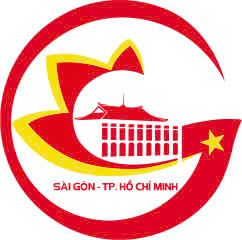
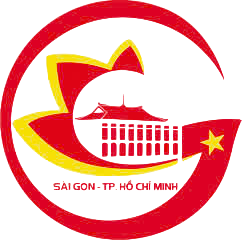
add ContactBar and remove background

diff --git a/src/pages/Home.tsx b/src/pages/Home.tsx
@@ -48,18 +48,7 @@ const Home = () => {
         </div>
         <div>images</div>
       </div>
-      <div className="flex flex-row gap-4">
-        <div>images</div>
-        <div>
-          <p>text</p>
-          <h1>title</h1>
-          <p>Description</p>
-          <button className="transition text-black hover:ease-in duration-200 hover:scale-110  bg-white border-2 border-[#064273]">
-            button
-          </button>
-        </div>
-      </div>
-      <div className="flex flex-col items-center text-center gap-4 font-bold">
+      <div className="flex flex-col items-center text-center gap-4 font-bold mt-3">
         <h1>Short heading here</h1>
         <button className="text-black bg-white border-2 border-[#064273] font-bold">
           ĐẶT LỊCH HẸN

diff --git a/src/components/ContactBar.tsx b/src/components/ContactBar.tsx
@@ -1,0 +1,20 @@
+import React from "react";
+import { ContactBarConst } from "../utils/constants";
+
+const ContactBar = () => {
+  return (
+    <div className="fixed right-4 top-[50vh] flex flex-col gap-2">
+      {ContactBarConst.map((item, index) => (
+        <a
+          key={index}
+          href={item.href}
+          className="w-16 h-16 bg-white shadow-lg rounded-full flex items-center justify-center hover:scale-110 transition-transform"
+        >
+          <img src={item.src} alt="contact icon" className="w-10 h-10" />
+        </a>
+      ))}
+    </div>
+  );
+};
+
+export default ContactBar;

diff --git a/src/App.tsx b/src/App.tsx
@@ -14,6 +14,7 @@ import Procedures from "./pages/procedures/Procedures";
 import GeneralServices from "./pages/generalServices/GeneralServices";
 import GeneralService from "./pages/generalServices/GeneralService";
 import RetractBar from "./components/RetractBar";
+import ContactBar from "./components/ContactBar";
 
 
 function App() {
@@ -35,6 +36,7 @@ function App() {
         <Route path="/contact" element={<ContactInfo />} />
       </Routes>
       <RetractBar/>
+      <ContactBar/>
       <Footer />
     </>
   );

diff --git a/src/utils/constants.ts b/src/utils/constants.ts
@@ -364,3 +364,19 @@ export const RetractBarConst = [
     href: "https://hochiminhcity.gov.vn/",
   },
 ];
+
+export const ContactBarConst = [
+  {
+    src: "zalo.png",
+    href: "https://zalo.me/0938571549",
+  },
+  {
+    src : "phone.png",
+    href: "tel:0938571549",
+  },
+  {
+    src: "email.png",
+    href: "mailto:ls_songtung@yahoo.com",
+  },
+
+];
